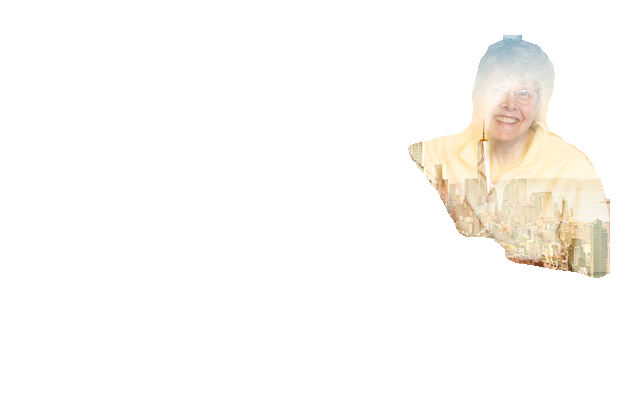
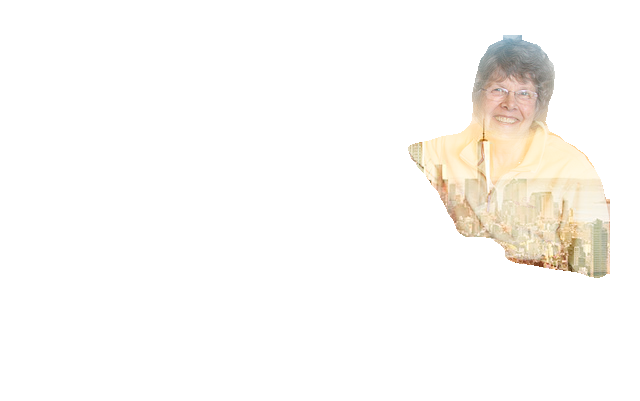
modified:   background_filter.png 	modified:   dbexpos_image.png 	modified:   plot.png 	modified:   visualize.py

Changed region(s): [[0.7188, 0.0898, 0.875, 0.419]]

diff --git a/visualize.py b/visualize.py
@@ -173,12 +173,12 @@ def display_instances(image, background, i, boxes, masks, class_ids, class_names
     x_product = b[1]/96
     min_x ,min_y,max_x,max_y = bboxes[:4]
     print(bboxes,"bboxes")
-    Leye_x = np.floor(y_pred[0]*x_product+min_x)
-    Leye_y = np.floor(y_pred[1]*y_product+min_y)
+    Leye_x = np.floor(y_pred[6]*x_product+min_x)
+    Leye_y = np.floor((96-y_pred[7])*y_product+min_y)
     nose_x = np.ceil(y_pred[20]*x_product+min_x)
-    nose_y = np.ceil(y_pred[21]*y_product+min_y)
+    nose_y = np.ceil((96-y_pred[21])*y_product+min_y)
     mouse_x = np.ceil(y_pred[26]*x_product+min_x)
-    mouse_y = np.ceil(y_pred[27]*y_product+min_y)
+    mouse_y = np.ceil((96-y_pred[27])*y_product+min_y)
     print("face",Leye_x,Leye_y,nose_x,nose_y,mouse_x,mouse_y)
     #print(Leye_x,Leye_y,nose_x,nose_y,masked_image.shape[0],masked_image.shape[1])
 
@@ -222,8 +222,8 @@ def nosefilter(img,Leye_x,Leye_y,nose_x,nose_y,mouse_x,mouse_y):
         sine_sita = a/c
         center_x = float(nose_x)
         center_y = float(nose_y)
-        radius_x = 2*scale*abs(float(Leye_x)-center_x)
-        radius_y = 2*scale*abs(float(Leye_y)-center_y)
+        radius_x = 2.5*scale*abs(float(Leye_x)-center_x)
+        radius_y = 2.5*scale*abs(float(Leye_y)-center_y)
         print(center_x,center_y,radius_x,radius_y)
         min_a = center_x - radius_x
         if min_a < 0 :
